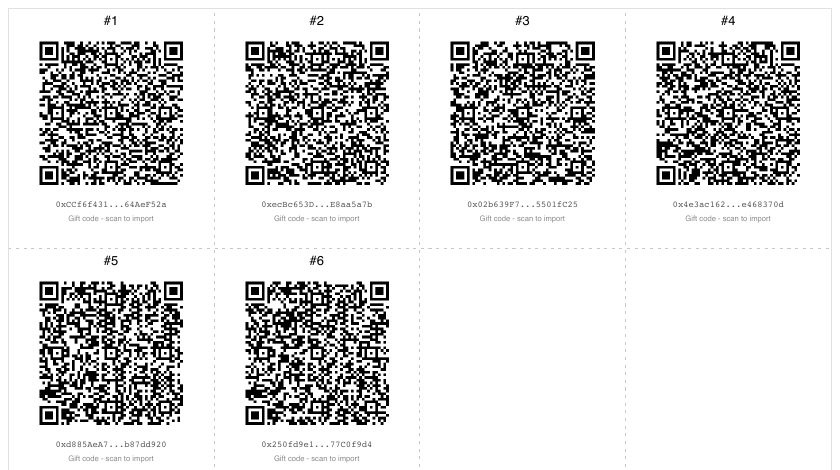
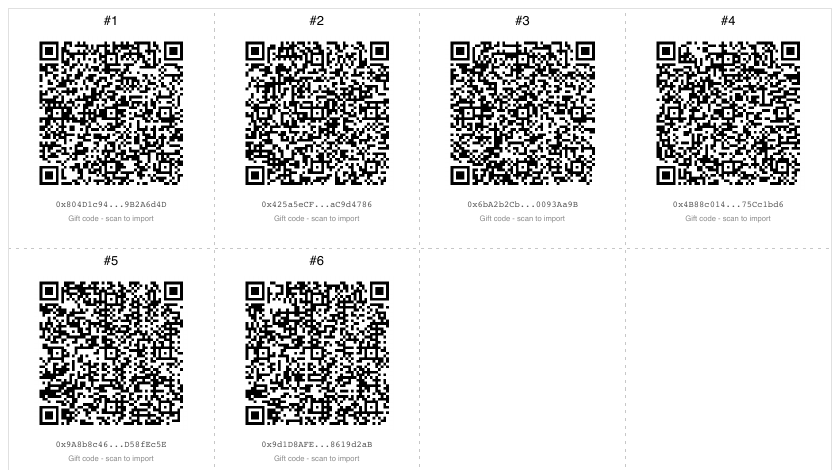
docs: one screenshot per Usage Guide section
- Replace the long full-page Generate tab capture with a screenshot under each Usage Guide section: generating codes, creating gift drives, downloading the handout kit and recovering funds
- Move the Recover Funds screenshot from the Features list into its Usage Guide section, retaken from the current UI
- Retake the handout kit and card sheet images from the same session

diff --git a/README.md b/README.md
@@ -26,8 +26,6 @@ Each of the last two takes either the codes from this session or a key list you 
 **2. Download the handout kit**
 - **Handout Kit Export**: QR images, a tracking spreadsheet and a printable card sheet as one zip
 
-<img width="640" alt="Generate Codes tab mid-event: batch name and generate form, six generated codes (four with gift drives), the Gift drives step and the Handout kit step" src="docs/images/generate-tab.png" />
-
 ### 💸 Recover Funds Tab
 
 - **Bulk Recovery**: Recover funds from multiple gift wallets at once
@@ -35,7 +33,6 @@ Each of the last two takes either the codes from this session or a key list you 
 - **Automatic Transfers**: Transfer all xDAI and xBZZ to connected wallet
 - **Transaction Tracking**: View transaction hashes and block explorer links
 - **Error Handling**: Comprehensive error reporting for failed recoveries
-<img width="934" height="567" alt="image" src="https://github.com/user-attachments/assets/1e738a07-169f-41db-b750-168ce65aad10" />
 
 ## 🚀 Quick Start
 
@@ -104,6 +101,8 @@ Make sure your wallet is connected to the correct network.
 5. **Fund Wallets**: Use the fund contract to distribute tokens
 6. **Export**: Copy the codes, or **Download codes** for a `.txt` of one key per line
 
+<img width="560" alt="Generate form with a batch name, and the top of the generated codes list with the Fund Wallets, Copy Codes and Download codes buttons" src="docs/images/generate-codes.png" />
+
 ### The batch name
 
 One input at the top of the form names all five files:
@@ -130,6 +129,8 @@ Run it on this session's codes, or paste a key list from an earlier one.
 3. **Check wallets** — reads every wallet's xBZZ and gas before anything is spent, and reports which cannot pay
 4. **Create gift drives** — two transactions per wallet: approve, then `createBatch`
 5. **Export** — copy or download key/address/batch ID as a `.tsv`
+
+<img width="560" alt="Gift drives step on six session codes, four of which already have a drive: depth, amount per chunk, the cost readout and Create 2 gift drives" src="docs/images/gift-drives.png" />
 
 Some things worth knowing:
 
@@ -204,6 +205,8 @@ The file carries boolean values and the app supplies the widget:
 3. **Recover Funds**: Click "Recover Funds" to transfer all tokens
 4. **Monitor Progress**: View transaction status and results
 5. **Check Results**: Review recovered amounts and transaction hashes
+
+<img width="560" alt="Recover Funds tab with six gift codes pasted, one per line" src="docs/images/recover-funds.png" />
 
 ## 🏗 Architecture
 
